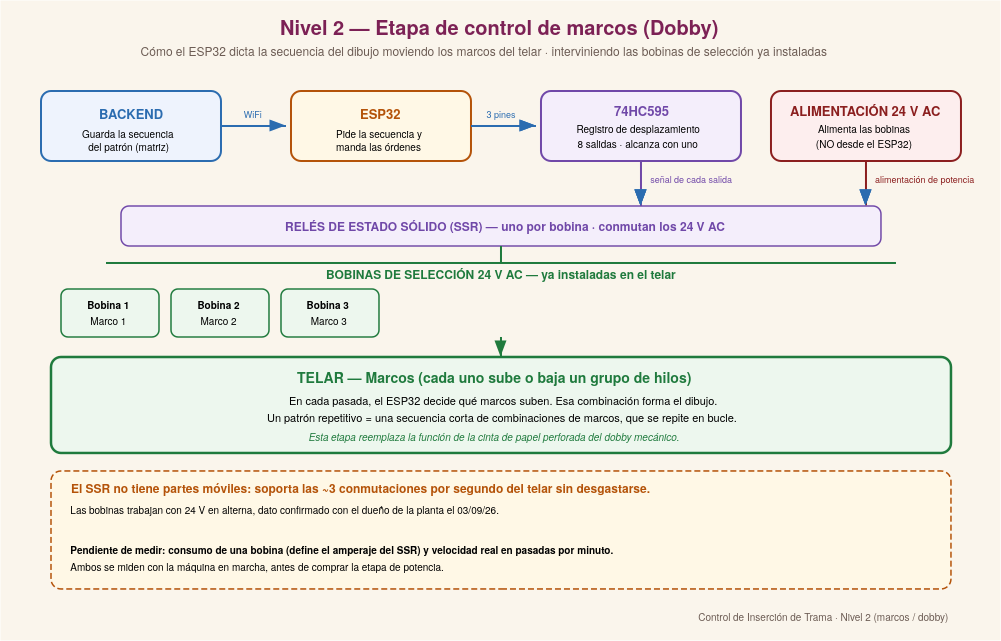
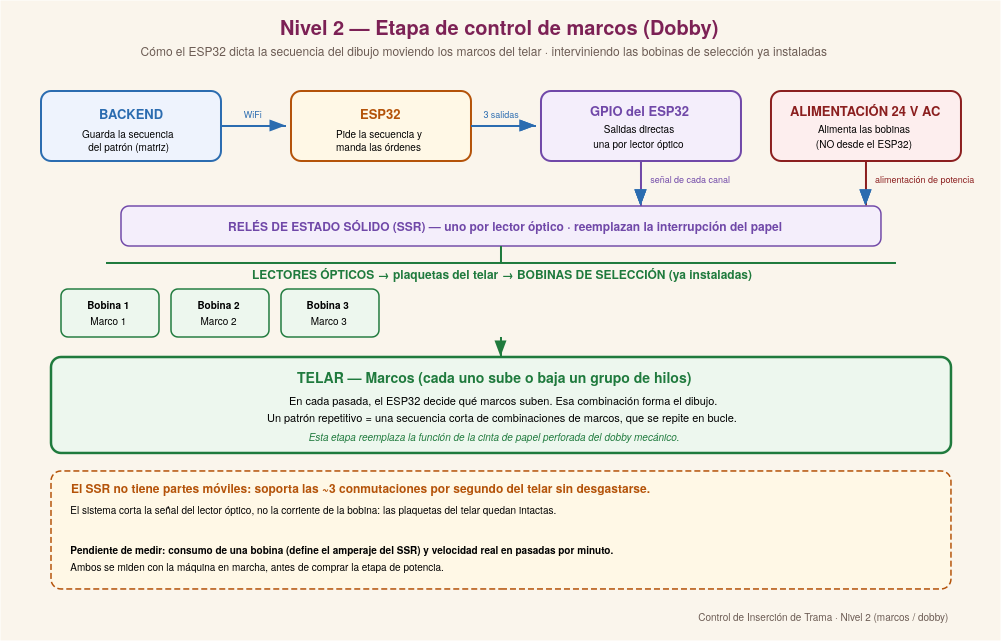
Add files via upload

diff --git a/esp32/verificacion/sim_nivel2.py b/esp32/verificacion/sim_nivel2.py
@@ -1,18 +1,18 @@
 # Simulación del FLUJO LÓGICO del Nivel 2 (control por marcos / dobby)
 # Verifica que un patrón repetitivo se traduzca correctamente en la secuencia
 # de marcos que suben en cada pasada, y que el ESP32 (vía el registro de
-# desplazamiento 74HC595) los comande.
+# directas del ESP32) los comande.
 
-N_CANALES_74HC595 = 8   # un solo integrado da 8 salidas
+N_GPIO_DISPONIBLES = 13  # GPIO libres del ESP32 para salidas de control
 
-class Registro74HC595Simulado:
-    """Simula el registro de desplazamiento. Cada salida comanda un relé de estado sólido,
+class SalidasDirectasSimuladas:
+    """Simula las salidas del ESP32. Cada una comanda un relé de estado sólido,
     y cada SSR acciona una bobina de selección del telar."""
     def __init__(self, n_marcos):
         self.n = n_marcos
-        self.salidas = [0]*N_CANALES_74HC595   # 0=abajo, 1=arriba
+        self.salidas = [0]*N_GPIO_DISPONIBLES   # 0=abajo, 1=arriba
     def set_marcos(self, marcos_arriba):
-        self.salidas = [0]*N_CANALES_74HC595
+        self.salidas = [0]*N_GPIO_DISPONIBLES
         for m in marcos_arriba:
             if 0 <= m < self.n:
                 self.salidas[m] = 1
@@ -52,7 +52,7 @@ patron_raya = [
     [0,1,0],  # pasada 4: como la 2
 ]
 
-registro = Registro74HC595Simulado(N_MARCOS)
+salidas_esp32 = SalidasDirectasSimuladas(N_MARCOS)
 secuencia = patron_a_secuencia_marcos(patron_raya, N_MARCOS)
 
 print(f"\n  Telar de {N_MARCOS} marcos (bobinas instaladas). Patrón de {len(patron_raya)} pasadas.\n")
@@ -61,7 +61,7 @@ print("  Simulando 2 repeticiones completas del patrón (8 pasadas):\n")
 historial = []
 for rep in range(2):
     for i, marcos in enumerate(secuencia):
-        estado_bobinas = registro.set_marcos(marcos)
+        estado_bobinas = salidas_esp32.set_marcos(marcos)
         historial.append(tuple(estado_bobinas))
         arriba = ','.join(str(m+1) for m in marcos) if marcos else 'ninguno'
         print(f"  rep{rep+1} pasada {i+1}: marcos arriba = [{arriba}]   bobinas={estado_bobinas}")
@@ -89,9 +89,9 @@ v.append((f"Nunca se activan más marcos que los físicos ({N_MARCOS})",
 # 4. En cada pasada, complementariedad (los que no suben, bajan)
 v.append(("En cada pasada, cada marco está definido (arriba O abajo)",
           all(len(h) == N_MARCOS for h in historial)))
-# 5. Un solo 74HC595 alcanza (tiene 8 salidas)
-v.append((f"Un solo 74HC595 alcanza para este telar ({N_MARCOS} marcos, 8 salidas disponibles)",
-          N_MARCOS <= N_CANALES_74HC595))
+# 5. Los GPIO del ESP32 alcanzan sin componentes intermedios
+v.append((f"Los GPIO del ESP32 alcanzan de sobra ({N_MARCOS} canales, {N_GPIO_DISPONIBLES} libres)",
+          N_MARCOS <= N_GPIO_DISPONIBLES))
 
 okc = 0
 for nombre, cond in v:

diff --git a/esp32/NIVEL2_CONTROL_POR_MARCOS.md b/esp32/NIVEL2_CONTROL_POR_MARCOS.md
@@ -59,10 +59,15 @@ lugar del lector óptico de la cinta de papel.
 - **Trabajan con 24 V en corriente alterna**, confirmado por el dueño de la
   planta el 03/09/26. Este dato define toda la etapa de potencia.
 - Hoy la señal **no llega directo desde el lector óptico a las bobinas**: pasa
-  por unas plaquetas electrónicas alojadas en la caja del telar. La propuesta
-  del dueño es cortar la señal de la óptica e inyectar la del sistema en su
-  lugar, sin intervenir esas plaquetas.
-- **Relés de estado sólido (SSR), uno por bobina.** Es el punto donde más se
+  por unas plaquetas electrónicas alojadas en la caja del telar.
+- **El punto de intervención es el propio lector óptico, no la bobina.** El
+  dueño de la planta lo explicó así: cada lector óptico se corta con una llave,
+  de modo que en lugar de que sea el papel el que interrumpe el haz, lo hace un
+  interruptor electrónico que entrega un 1 o un 0. Esto simplifica bastante la
+  etapa de potencia, porque el sistema no conmuta la corriente de la bobina
+  sino la señal del lector, que maneja mucha menos corriente. Las plaquetas del
+  telar quedan intactas y siguen haciendo su trabajo.
+- **Relés de estado sólido (SSR), uno por lector óptico.** Es el punto donde más se
   equivoca la intuición: un relé mecánico común no sirve acá. El telar trabaja
   alrededor de 200 pasadas por minuto, o sea unas 3 por segundo, y cada bobina
   puede conmutar una vez por pasada. Eso son unas 96.000 conmutaciones en un
@@ -75,8 +80,11 @@ lugar del lector óptico de la cinta de papel.
   conmuta en el cruce por cero y genera menos ruido eléctrico.
 - El **ESP32** recibe del backend la secuencia y, en cada pasada, activa las
   bobinas que corresponden a esa fila.
-- Con un solo **registro de desplazamiento 74HC595** alcanza de sobra: sus 8
-  salidas cubren este telar sin quedarse sin pines.
+- **Los SSR se conectan directo a los GPIO del ESP32.** Un diseño anterior
+  contemplaba un registro de desplazamiento 74HC595 para manejar ocho salidas
+  con pocos pines, pero con tres canales no hace falta: al ESP32 le sobran
+  GPIOs libres. Se elimina un componente, se simplifica el firmware y baja el
+  costo.
 
 **Lo que quedó descartado:** las versiones anteriores de este documento
 planteaban MOSFET IRLZ44N con diodos flyback. Eso vale para bobinas de
@@ -84,9 +92,12 @@ corriente continua, pero no para estas: un MOSFET conduce en un solo sentido y
 su diodo interno deja pasar el otro semiciclo, con lo que la bobina quedaría
 siempre parcialmente energizada.
 
-**Datos que faltan medir en la máquina:** la velocidad real en pasadas por
-minuto y el consumo de una bobina. El primero confirma el cálculo de vida útil
-y el segundo define qué SSR comprar.
+**Datos que faltan medir en la máquina:** la tensión y la corriente en la
+salida de un lector óptico, que definen qué SSR comprar, y la velocidad real en
+pasadas por minuto, que confirma el cálculo de vida útil. Como referencia, las
+máquinas de rapier de esta generación trabajan entre 200 y 260 pasadas por
+minuto, lo que da unas 4 conmutaciones por segundo y alrededor de 110.000 por
+turno de 8 horas.
 
 Esto es **de escala de prototipo**, no de proyecto industrial.
 

diff --git a/esp32/RECOMENDACIONES_ELECTRICAS.md b/esp32/RECOMENDACIONES_ELECTRICAS.md
@@ -110,7 +110,12 @@ Las bobinas de selección del telar **trabajan con 24 V en corriente alterna**
 (confirmado con el dueño de la planta el 03/09/26). Eso define qué se puede
 usar para comandarlas y qué no.
 
-- **Relé de estado sólido (SSR), uno por bobina.** Un relé mecánico común no
+- **El punto de intervención es el lector óptico, no la bobina.** Según explicó
+  el dueño de la planta, cada lector se corta con una llave: en lugar de que el
+  papel interrumpa el haz, lo hace un interruptor electrónico. El sistema
+  conmuta entonces la señal del lector, no la corriente de la bobina, y las
+  plaquetas del telar quedan intactas.
+- **Relé de estado sólido (SSR), uno por lector.** Un relé mecánico común no
   sirve para esta tarea: el telar hace unas 3 pasadas por segundo y cada bobina
   puede conmutar una vez por pasada, lo que da unas 96.000 conmutaciones por
   turno. La vida típica de un relé mecánico con carga ronda las 100.000, así
@@ -124,8 +129,14 @@ usar para comandarlas y qué no.
   diodo interno deja pasar el otro semiciclo: la bobina quedaría siempre
   parcialmente energizada. Los MOSFET y los diodos flyback valen para cargas de
   continua, que no es el caso de este telar.
-- **Antes de comprar hay que medir** el consumo de una bobina, que define el
-  amperaje del SSR, y la velocidad real de la máquina en pasadas por minuto.
+- **Un optoacoplador común tampoco sirve.** Un PC817 tiene salida de
+  fototransistor, que conduce en un solo sentido: con corriente alterna deja
+  pasar medio ciclo. Para alterna hace falta un optotriac (MOC3041) o un SSR,
+  que internamente ya lleva el optoacoplador más una etapa de triac.
+- **Antes de comprar hay que medir** la tensión y la corriente en la salida de
+  un lector óptico, que definen el SSR, y la velocidad real de la máquina. Como
+  referencia, los telares de rapier de esta generación trabajan entre 200 y 260
+  pasadas por minuto.
 
 ## 7. Protecciones que ya quedaron aplicadas en el firmware
 

diff --git a/diagramas/README.md b/diagramas/README.md
@@ -42,7 +42,7 @@ solución.
 
 **Etapa de marcos del Nivel 2 (evolución).** Muestra cómo el ESP32 dictaría
 la secuencia del dibujo moviendo los marcos del telar: backend → ESP32 →
-registro de desplazamiento 74HC595 → relés de estado sólido (SSR) → las bobinas de selección de 24 V AC del telar
+GPIO del ESP32 → relés de estado sólido (SSR) → los lectores ópticos del telar
 → telar. Es el diagrama del Nivel 2 (control del tejido), a diferencia del
 eléctrico que es el Nivel 1 (arranque/pausa).
 
